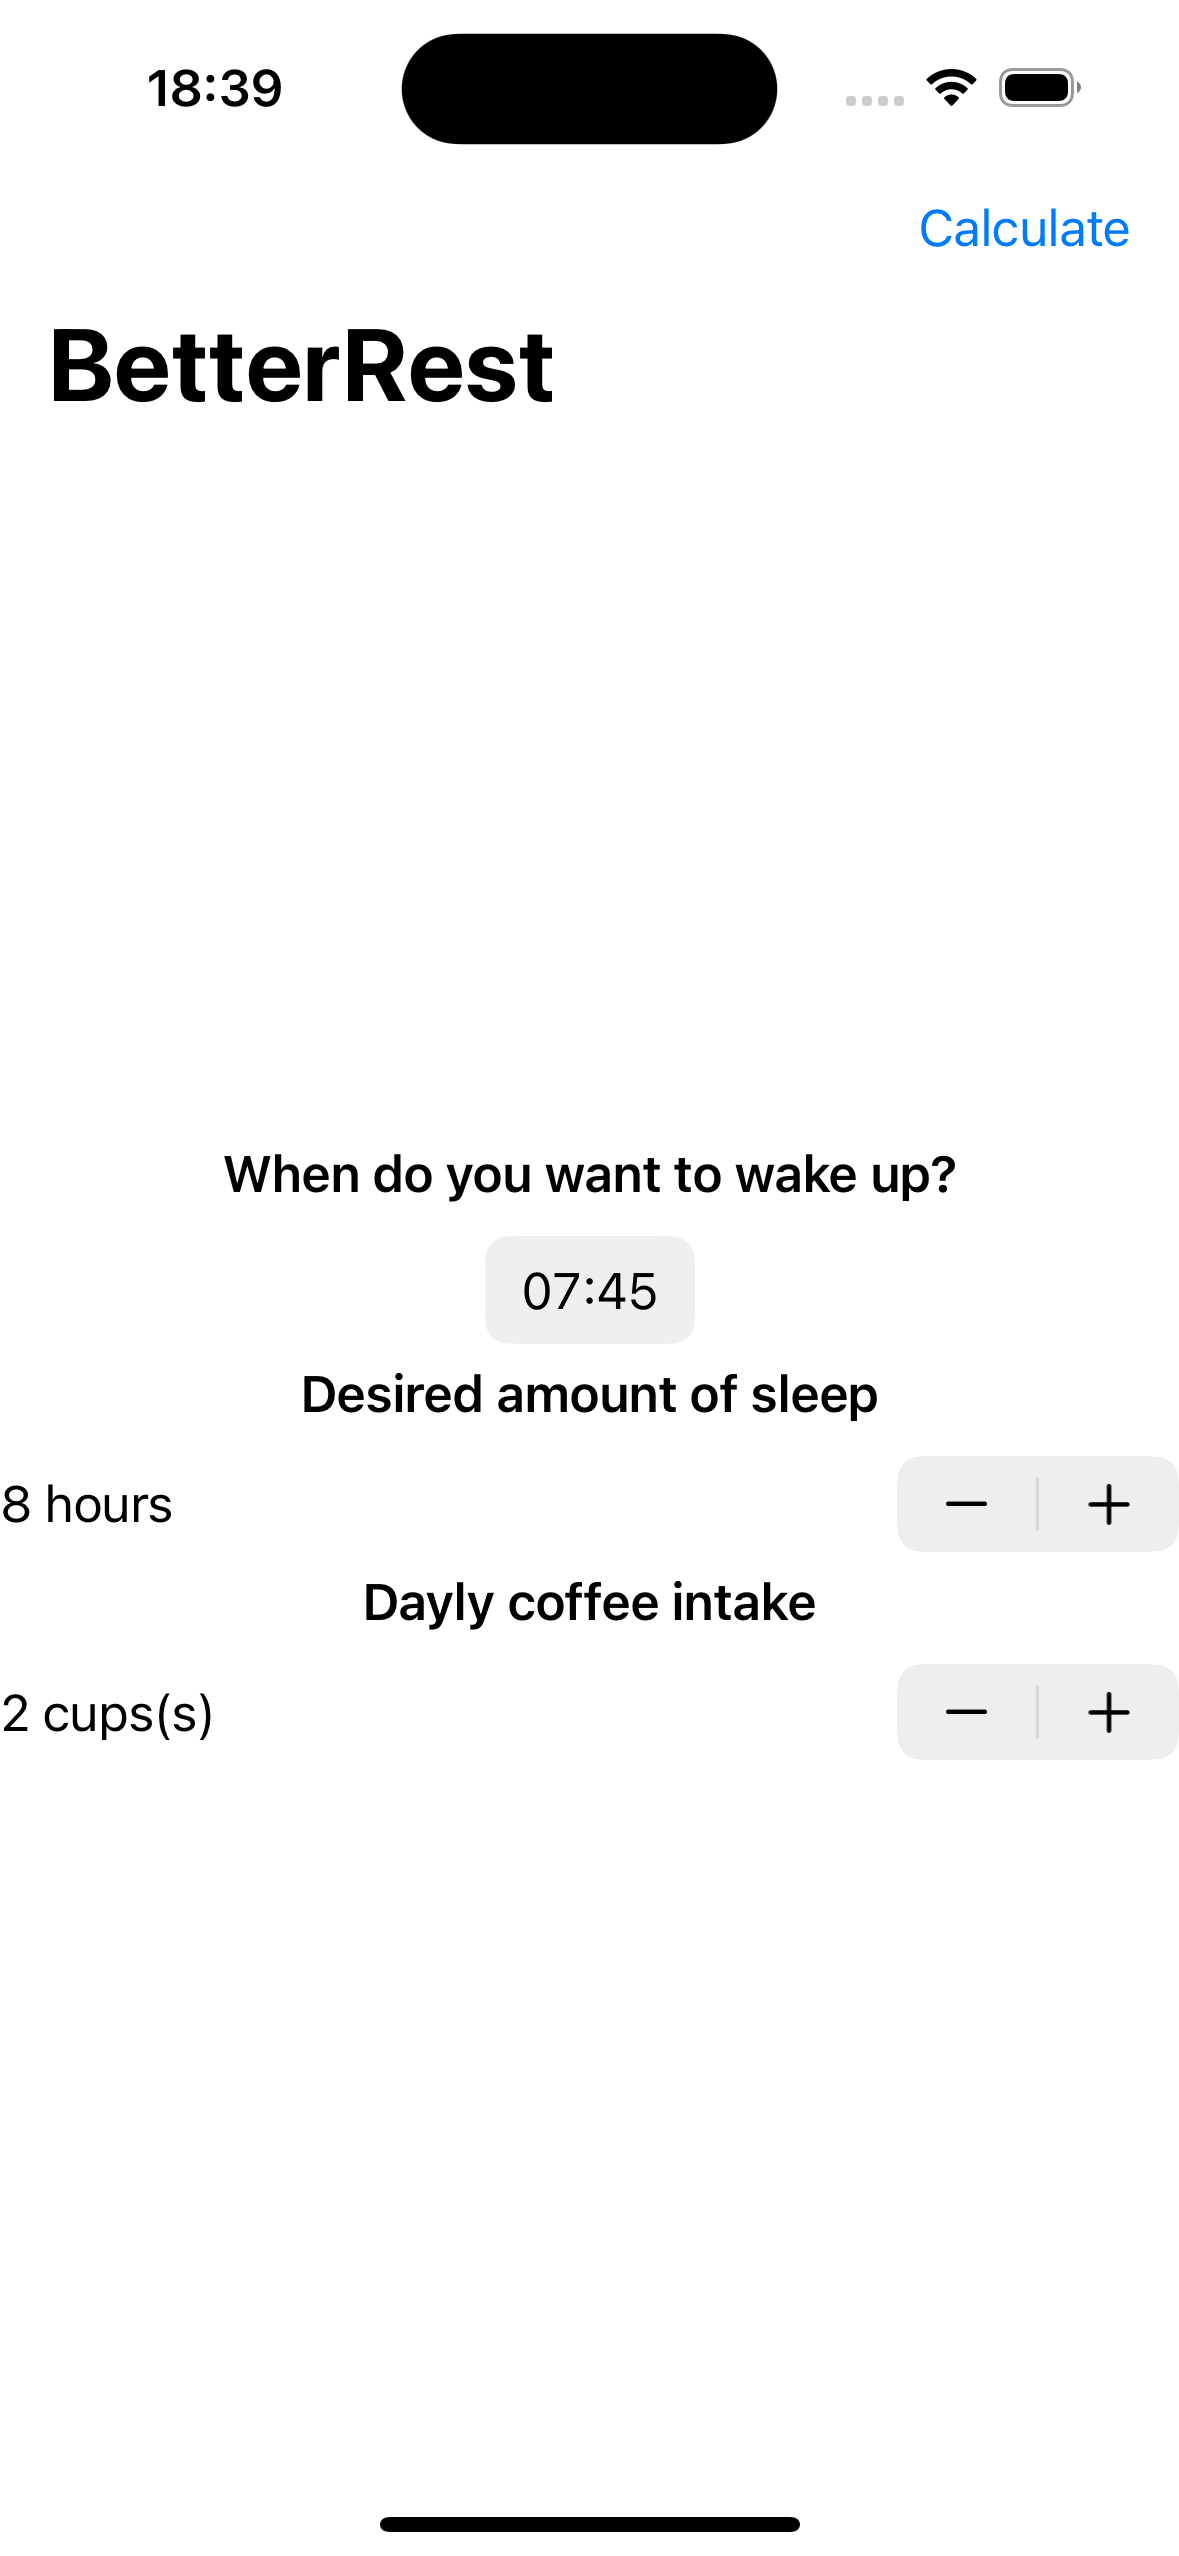
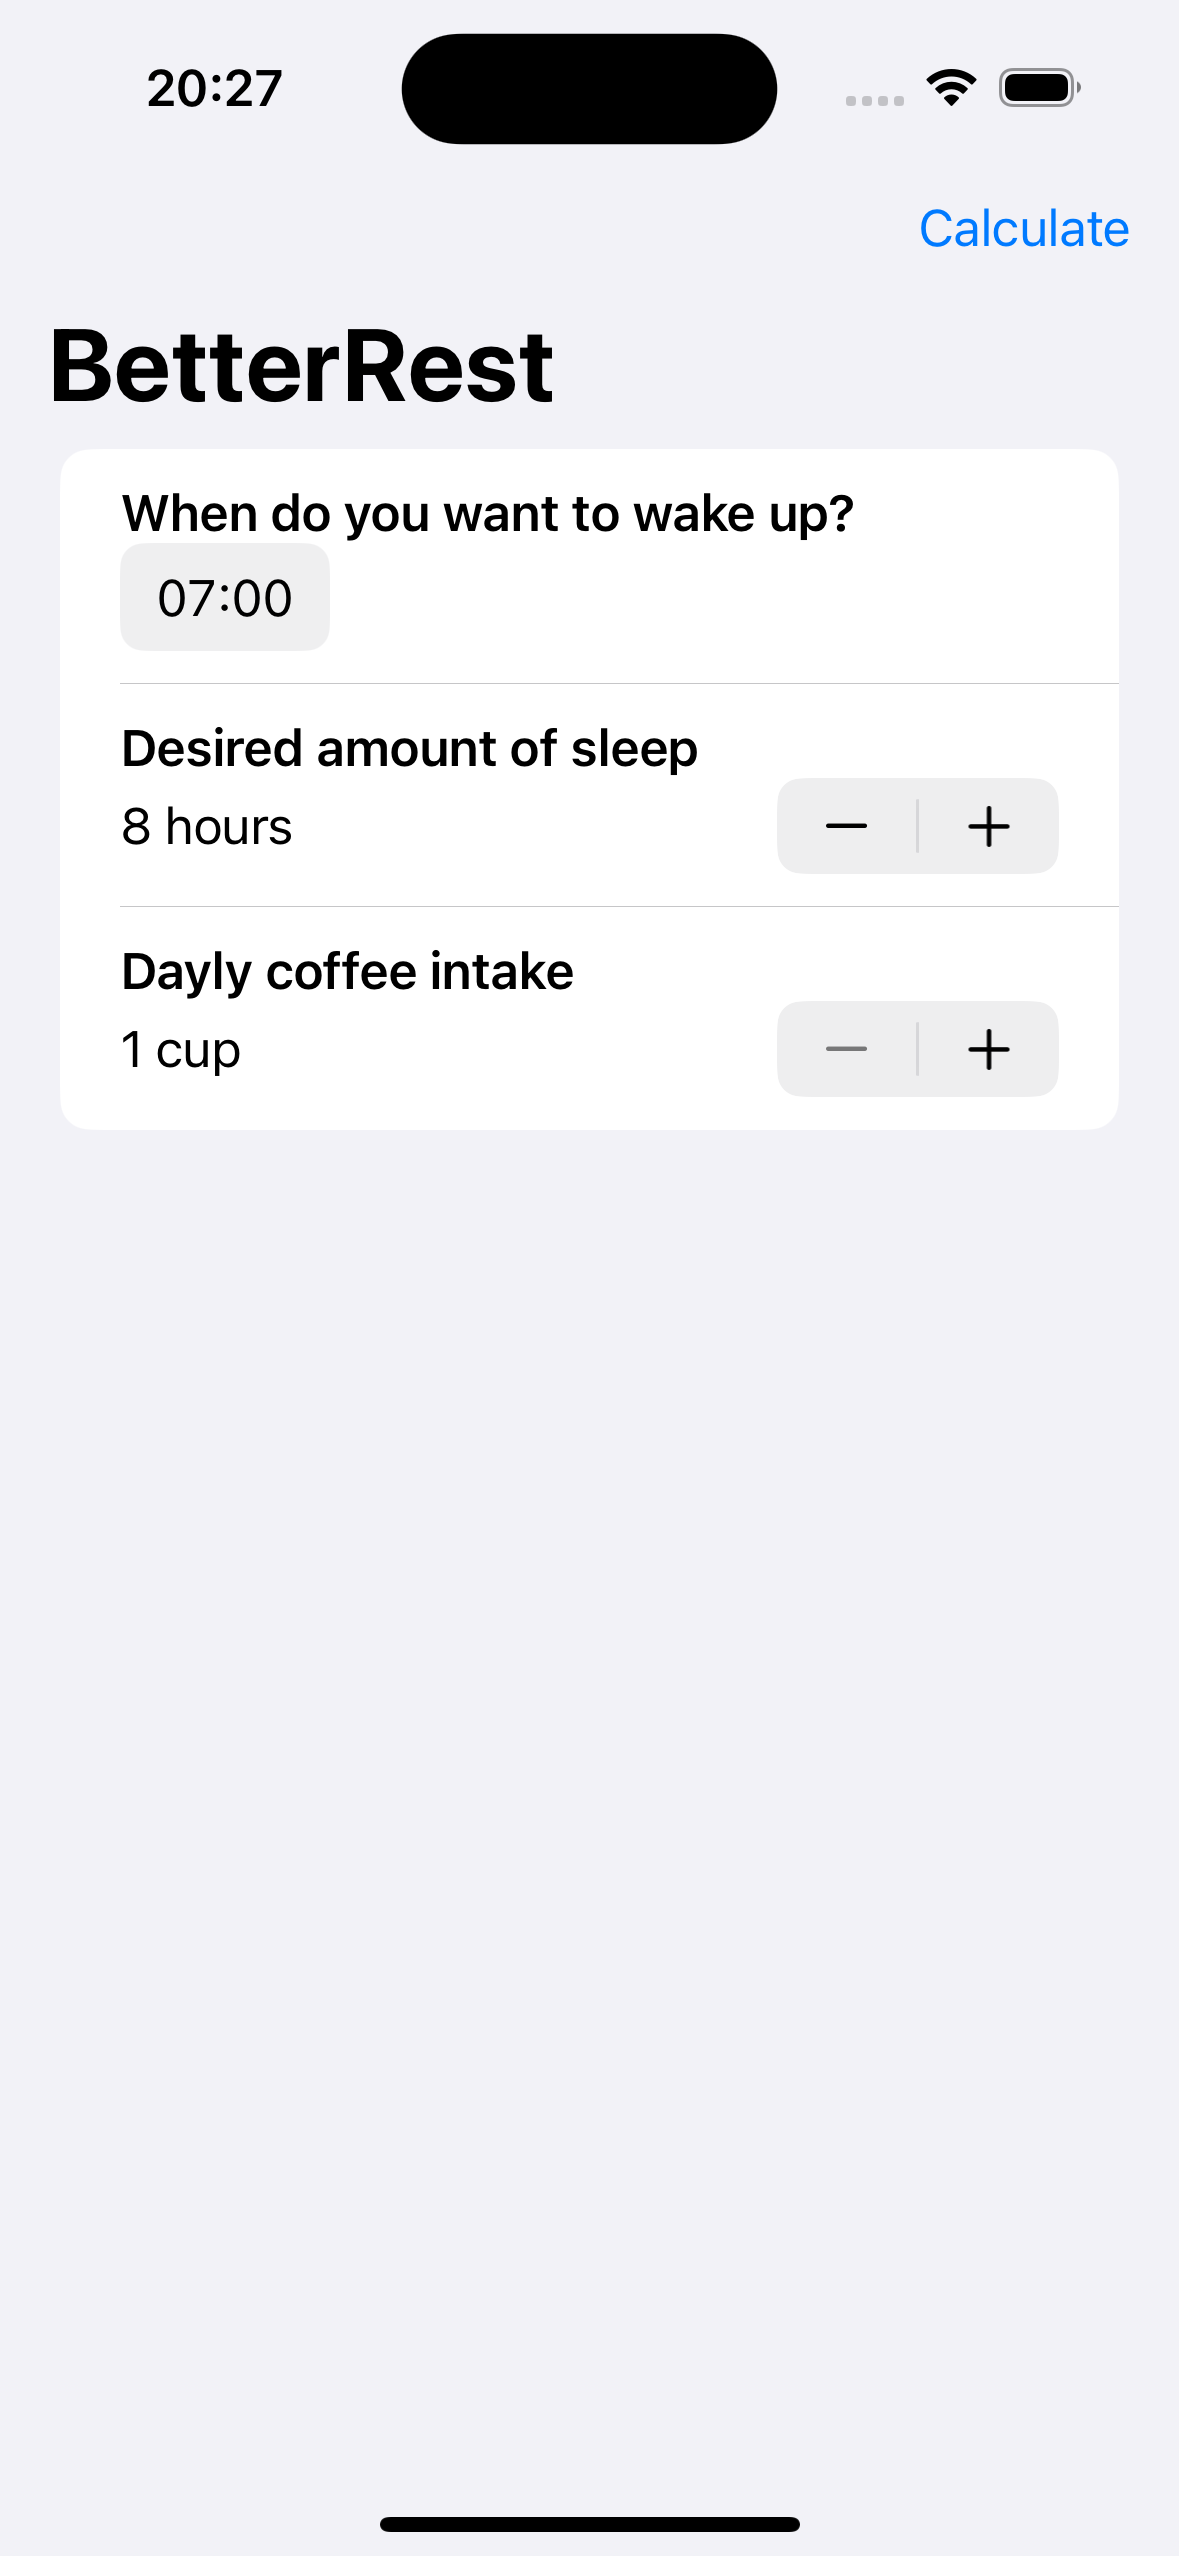
026 Project4 Cleaning up the user interface

diff --git a/026 Project 4/Project 4/Project 4/ContentView.swift b/026 Project 4/Project 4/Project 4/ContentView.swift
@@ -9,29 +9,41 @@ import SwiftUI
 
 struct ContentView: View {
     @State private var sleepAmount = 8.0
-    @State private var wakeUp = Date.now
+    @State private var wakeUp = defaultWakeTime
     @State private var coffeeAmount = 1
     @State private var alertTitle = ""
     @State private var alertMessage = ""
     @State private var showingAlert = false
     
+    static var defaultWakeTime: Date {
+        var components = DateComponents()
+        components.hour = 7
+        components.minute = 0
+        return Calendar.current.date(from: components) ?? .now
+    }
+    
     var body: some View {
         NavigationStack {
-            VStack {
-                Text("When do you want to wake up?")
-                    .font(.headline)
-                DatePicker("Please enter a time", selection: $wakeUp, displayedComponents: .hourAndMinute)
-                    .labelsHidden()
+            Form {
+                VStack(alignment: .leading, spacing: 0) {
+                    Text("When do you want to wake up?")
+                        .font(.headline)
+                    DatePicker("Please enter a time", selection: $wakeUp, displayedComponents: .hourAndMinute)
+                        .labelsHidden()
+                }
+                VStack(alignment: .leading, spacing: 0) {
+                    Text("Desired amount of sleep")
+                        .font(.headline)
+                    
+                    Stepper("\(sleepAmount.formatted()) hours", value: $sleepAmount, in: 4...12, step: 0.25)
+                }
                 
-                Text("Desired amount of sleep")
-                    .font(.headline)
-                
-                Stepper("\(sleepAmount.formatted()) hours", value: $sleepAmount, in: 4...12, step: 0.25)
-                
-                Text("Dayly coffee intake")
-                    .font(.headline)
-                
-                Stepper("\(coffeeAmount) cups(s)", value: $coffeeAmount, in: 1...20)
+                VStack(alignment: .leading, spacing: 0) {
+                    Text("Dayly coffee intake")
+                        .font(.headline)
+                    
+                    Stepper("^[\(coffeeAmount) cup](inflect: true)", value: $coffeeAmount, in: 1...20)
+                }
                 
             }
             //Stepper("\(sleepAmount.formatted()) hours", value: $sleepAmount, in: 4...12, step: 0.25)

diff --git a/026 Project 4/README.md b/026 Project 4/README.md
@@ -3,3 +3,6 @@
 <div style="text-align: center;">
     <img src="for_readme/image001.png" alt="image of the app ui" width="35%">
 </div>
+<div style="text-align: center;">
+    <img src="for_readme/image002.png" alt="image of the app ui" width="35%">
+</div>
